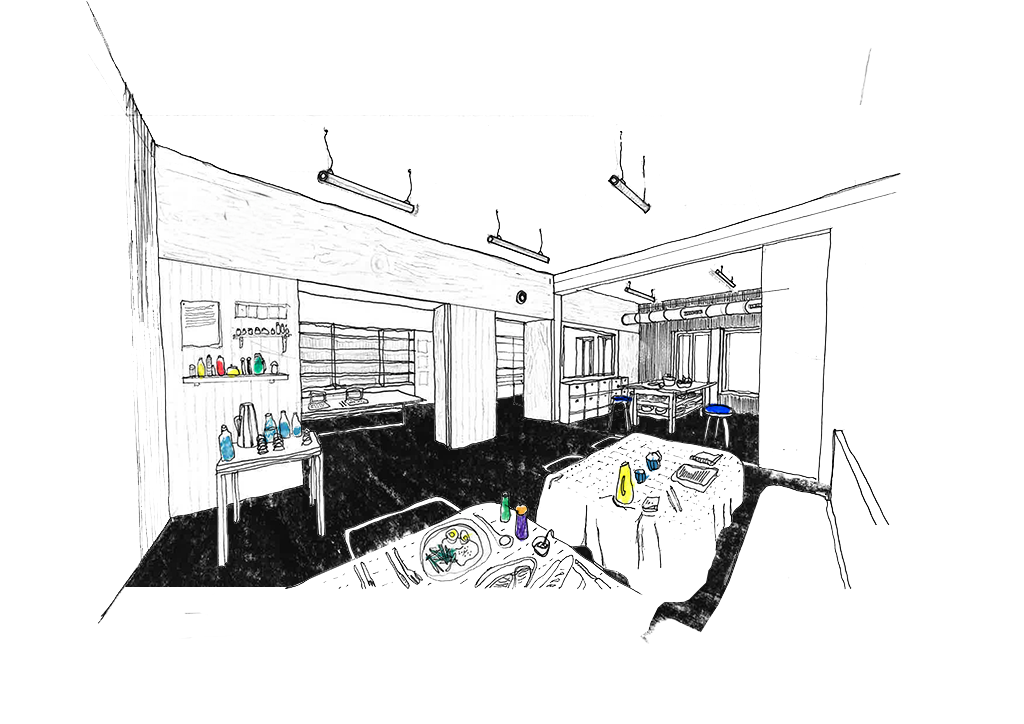
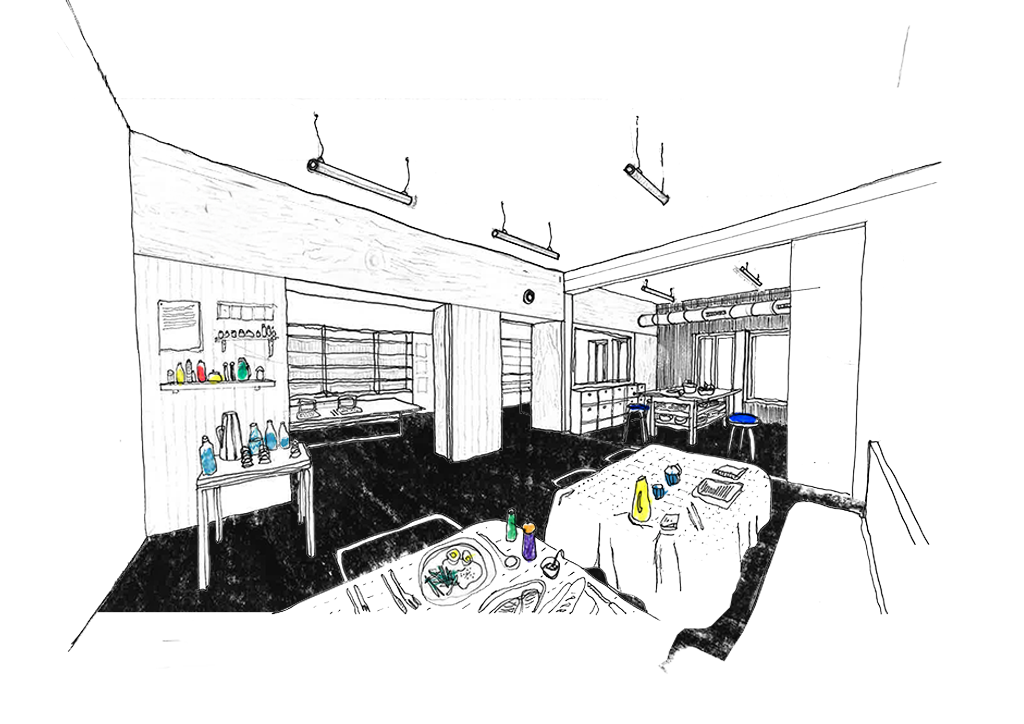
Descriptions en gras + espacement doublé sous chaque projet + remplacement de 2 photos

diff --git a/index.html b/index.html
@@ -77,7 +77,7 @@
   text-transform: uppercase;
   font-size: 72px;
   text-align: right;
-  margin: 30px 0;
+  margin: 90px 0;
   font-family: 'Lato', sans-serif;
   color: #002fa7;
 }
@@ -101,9 +101,9 @@
   font-size: 15px;
   text-align: left;
   max-width: 800px;
-  margin: 20px auto;
+  margin: 20px auto 40px auto;
   font-style: normal;
-  font-weight: normal;
+  font-weight: bold;
   font-family: 'Lato', sans-serif;
   color: #002fa7;
   line-height: 1.5;
@@ -139,9 +139,9 @@
   font-size: 15px;
   text-align: left;
   max-width: 800px;
-  margin: 20px auto;
+  margin: 20px auto 40px auto;
   font-style: normal;
-  font-weight: normal;
+  font-weight: bold;
   font-family: 'Lato', sans-serif;
   color: #002fa7;
   line-height: 1.5;
@@ -157,7 +157,7 @@
   text-transform: uppercase;
   font-size: 72px;
   text-align: right;
-  margin: 30px 0;
+  margin: 90px 0;
   font-family: 'Lato', sans-serif;
   color: #002fa7;
 }
